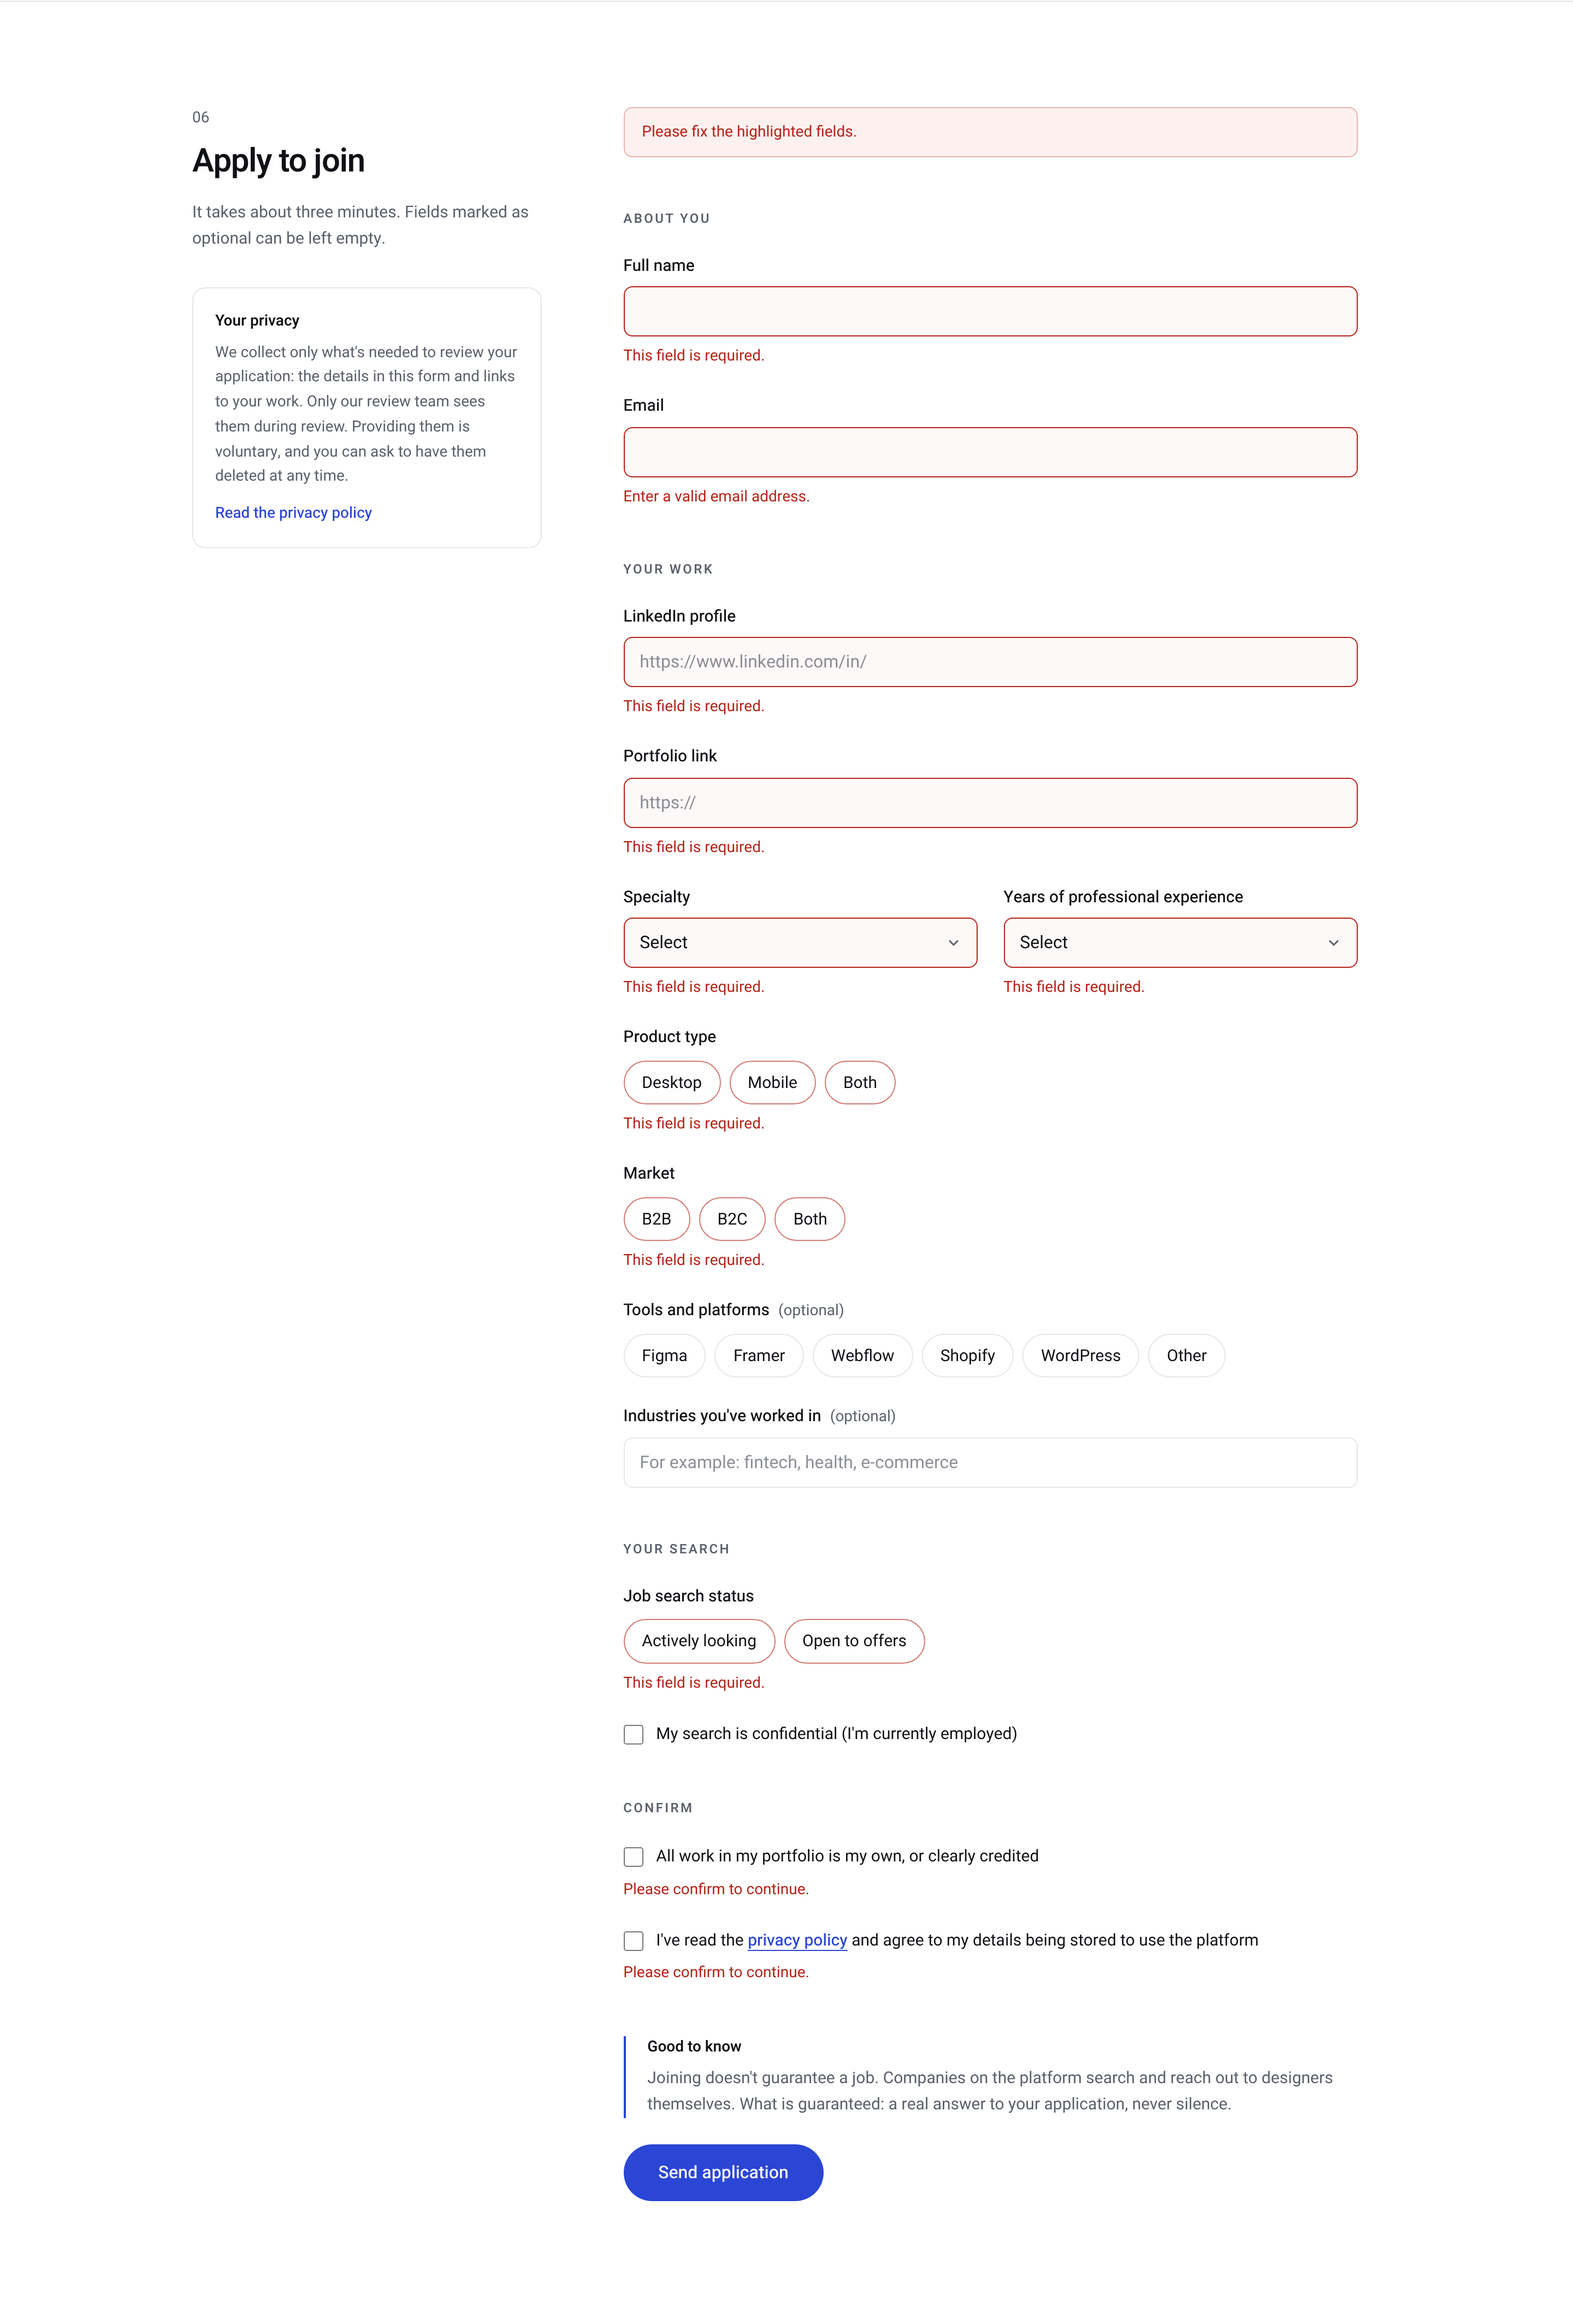
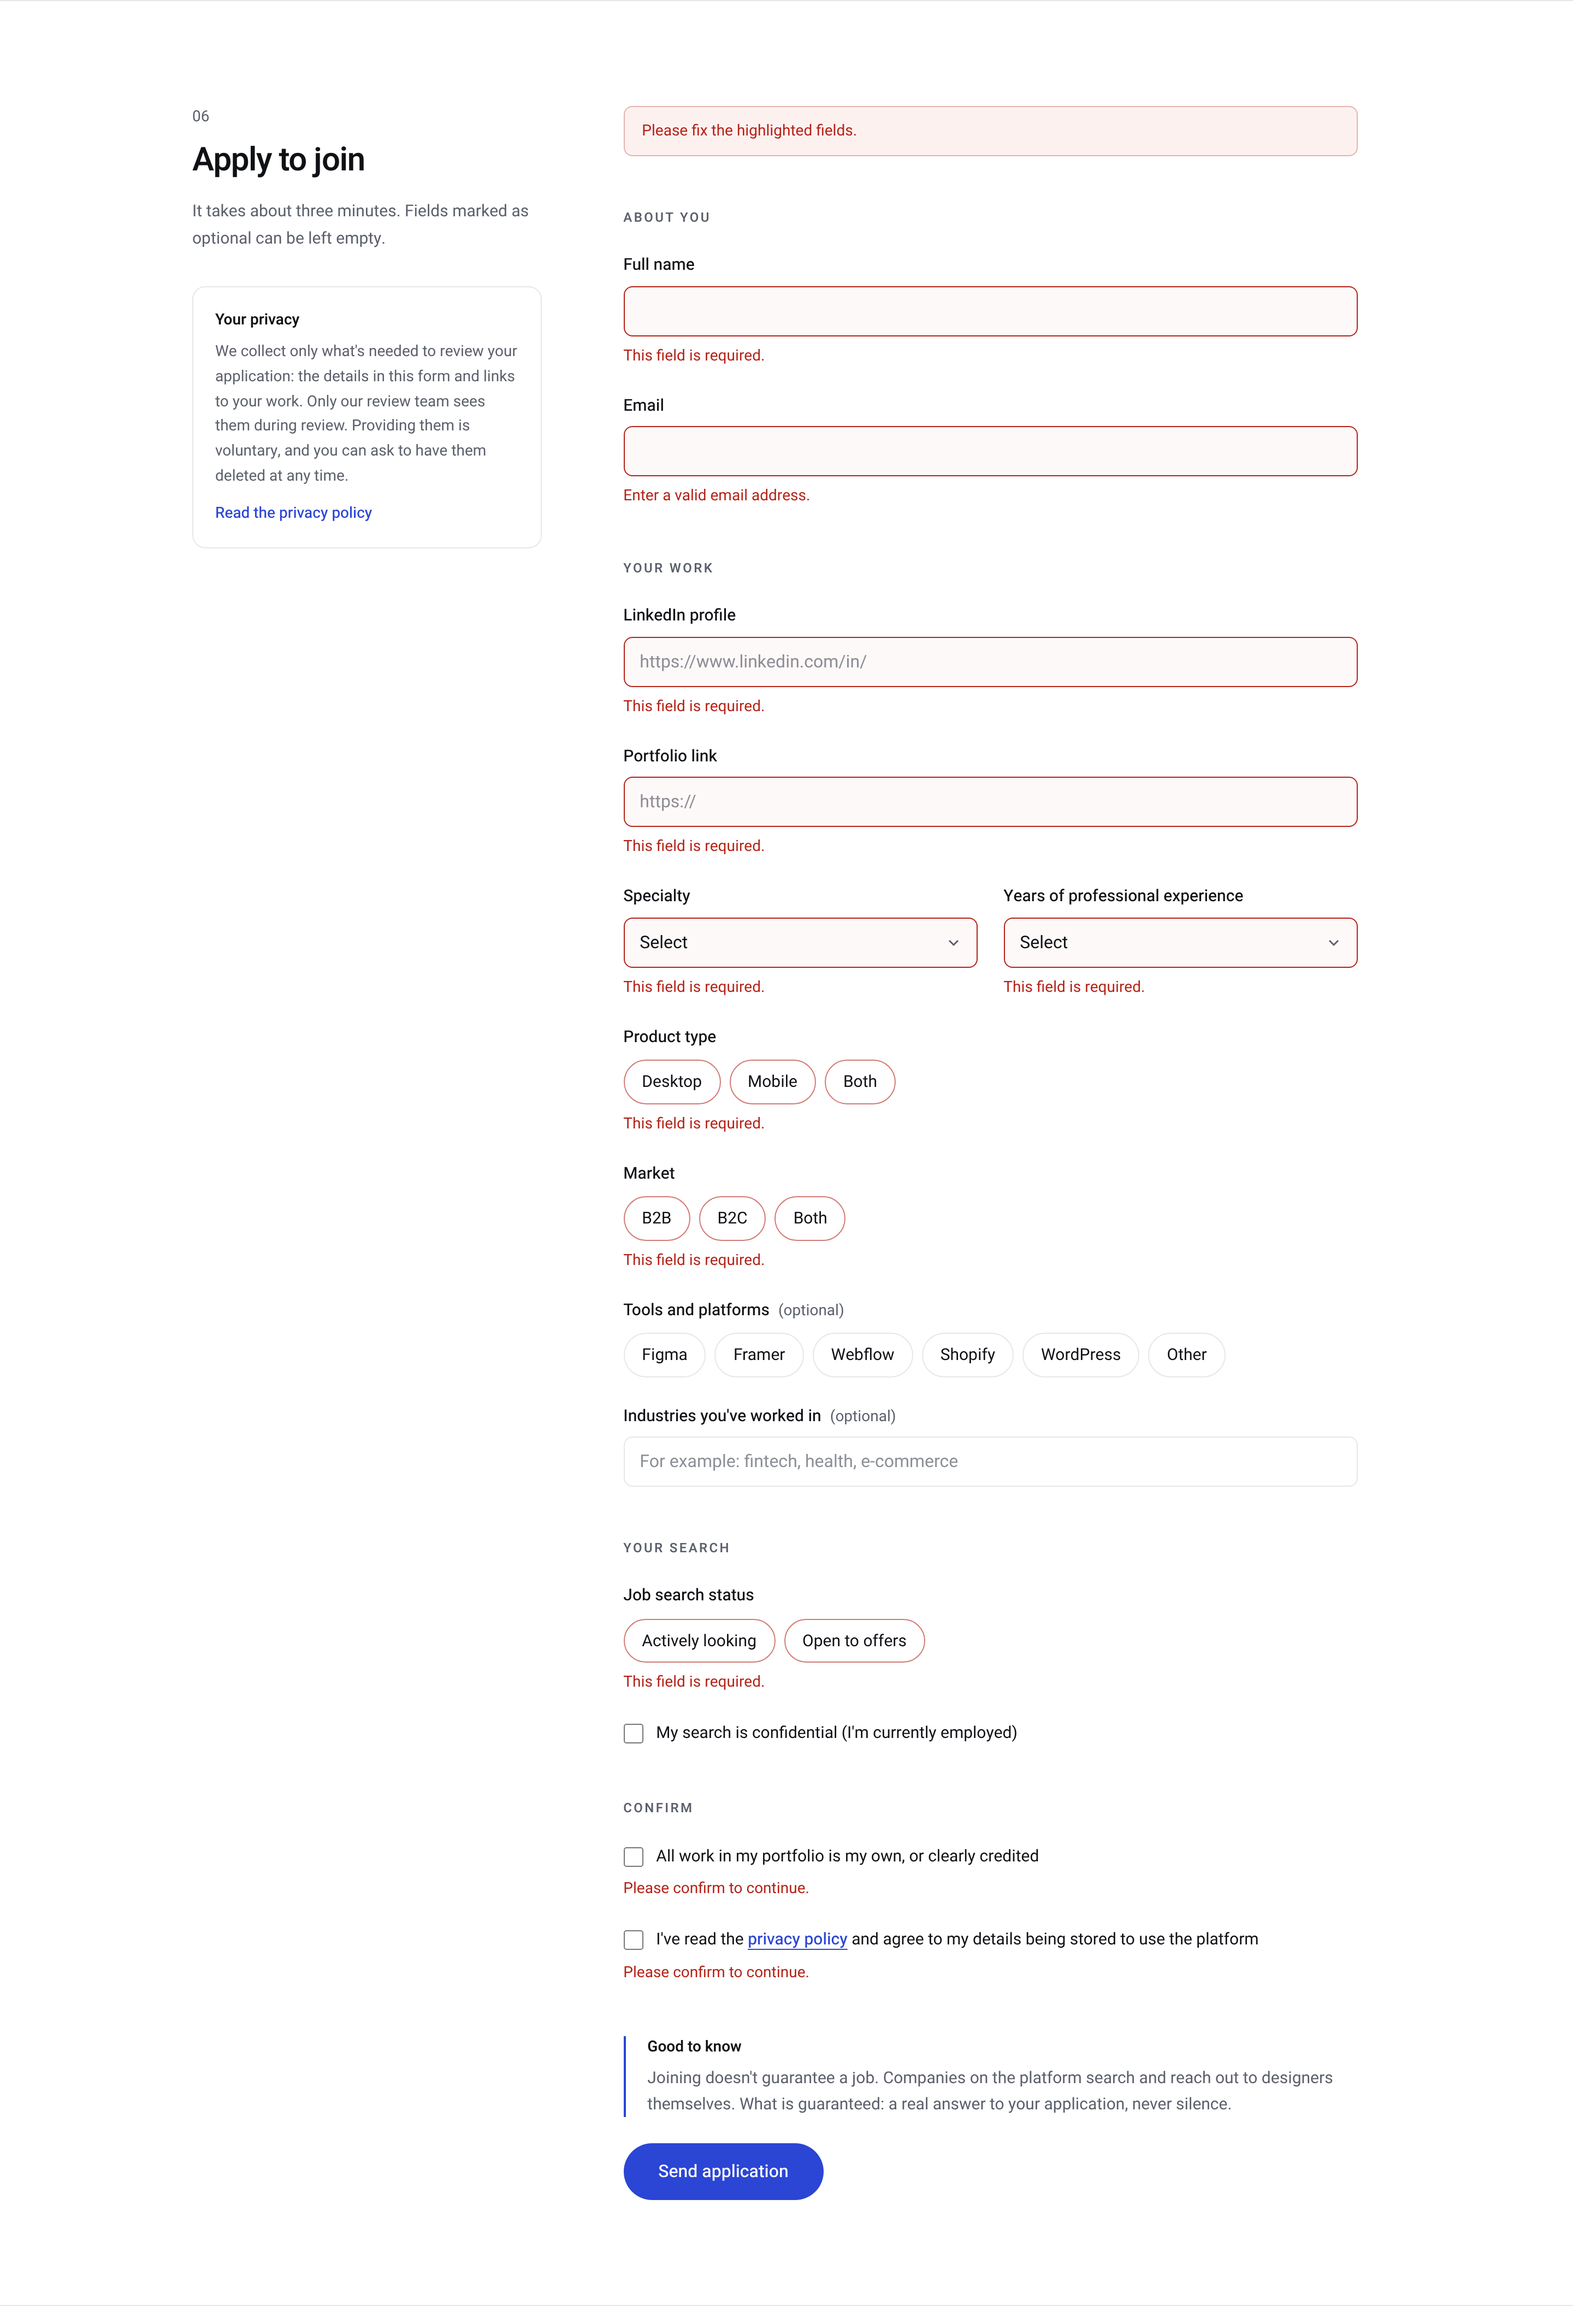
Open the platform to juniors with strong real work; add budget range rules
- Who it's for: no 3+ years minimum; real, shipped work is what counts
- Decline reason 'not enough experience (3+ years)' becomes
  'portfolio doesn't yet show enough real project work'
- Phase 2 budget: monthly gross ILS, top at most 30% above bottom,
  optional note on what moves someone up the range
- Designers can add an optional, never-public salary expectation

Claude-Session: https://claude.ai/code/session_0196WSr9f1eC6p38q1msxF84

diff --git a/src/lib/options.ts b/src/lib/options.ts
@@ -15,7 +15,7 @@ export const APPLICATION_AVAILABILITY = ["actively_looking", "open_to_offers"] a
 export const DECLINE_REASONS = [
   "no_process_case_studies",
   "outside_focus",
-  "not_enough_experience",
+  "not_enough_real_work",
   "portfolio_link_broken",
   "other",
 ] as const;

diff --git a/designer-network-spec.md b/designer-network-spec.md
@@ -74,6 +74,7 @@ Short privacy page (copy below).
   - Confidential search toggle (hide name and photo from employers in phase 2)
   - Portfolio link, LinkedIn link
   - Phone (optional)
+  - Salary expectation (optional): monthly gross, in ILS. Never public; shown only to registered companies in phase 2. Can be left empty.
   - Profile photo (optional, Supabase Storage)
   - Case studies: add, edit, reorder, delete. Each has title, short description (problem, process, outcome), cover image, optional external link, up to 6 images.
   - Contact preferences: email shown to employers yes/no, phone shown yes/no (default: no for both)
@@ -131,6 +132,7 @@ Validation with zod on client and server, error messages next to fields. Honeypo
 - availability text — actively_looking / open_to_offers / not_looking
 - confidential boolean default false
 - show_email boolean default false, show_phone boolean default false
+- salary_expectation int null (monthly gross ILS; optional)
 - own_work_confirmed boolean
 - consent boolean, consent_at timestamptz
 - rules_accepted_at timestamptz null
@@ -161,7 +163,7 @@ One row per decline email sent, so earlier declines remain visible when someone 
 Create only the tables below as empty structures (no UI, no API), so the schema is ready. Field notes reflect decisions already made (see "Phase 2 rules, for reference"):
 - `employers`: company_name, website, contact_name, email, verified boolean, rules_accepted_at, status (active / warned / removed), warnings int, is_founding boolean, created_at
 - `access_passes`: employer_id, type (hiring_round / extension / founding_lifetime / subscription), starts_at, ends_at (null for lifetime), amount_ils, paid_at
-- `jobs`: employer_id, title, description, specialty, product_type, market, seniority, stages jsonb (ordered list), expected_length_weeks (required), budget_min and budget_max (optional, both or neither; visible only to logged-in approved designers, never to visitors), assignment_hours null, assignment_paid boolean, status (open / closed), outcome (hired / not_hired / cancelled, required to close), hired_designer_id null, opened_at, closed_at
+- `jobs`: employer_id, title, description, specialty, product_type, market, seniority, stages jsonb (ordered list), expected_length_weeks (required), budget_min and budget_max (optional, both or neither; monthly gross ILS; budget_max at most 30% above budget_min; visible only to logged-in approved designers, never to visitors), budget_note null (what moves someone up the range), assignment_hours null, assignment_paid boolean, status (open / closed), outcome (hired / not_hired / cancelled, required to close), hired_designer_id null, opened_at, closed_at
 - `applications`: job_id, designer_id, status (sent / viewed / in_review / interview / offer / hired / not_a_fit / withdrawn), status timestamps, response_due_at, rejection_reason (from the professional list), rejection_note, created_at
 - `hire_confirmations`: job_id, designer_id, reported_by (employer / designer), confirmed_by_other boolean, created_at
 - `employer_reviews`: employer_id, designer_id, job_id, rating, comment, employer_response, created_at
@@ -179,7 +181,7 @@ Create only the tables below as empty structures (no UI, no API), so the schema 
 ## Decline reasons (admin dropdown)
 - Portfolio doesn't include case studies that show process
 - Most work is outside the platform's current focus
-- Less professional experience than currently required (3+ years)
+- Portfolio doesn't yet show enough real project work
 - Portfolio link doesn't work
 - Other
 
@@ -221,7 +223,7 @@ Product name not decided: placeholder `[Product name]` in one constant.
 - Footer line (every page): Not a recruitment or placement agency. Designers and companies find each other directly.
 
 **Who it's for**
-Product, UX/UI and web designers with 3+ years of professional experience and shipped work.
+Product, UX/UI and web designers with real, shipped work. Years matter less than the work itself: if you're early in your career, you're welcome too, as long as your portfolio shows strong skills and real projects.
 
 **Founding members**
 We're starting small: first we're building the designer community, and companies join next. The first designers will help shape how this works.
@@ -241,6 +243,10 @@ So the schema and naming fit what's coming:
 - **Employers pay for access, never per hire.** Main product: a hiring round pass (~60 days, extendable by 30). Founding lifetime offer for the first 10–20 companies only. Subscription later.
 - **Every role must state:** stages, expected process length, and assignment terms.
 - **Budget range: optional but encouraged.** Roles that share one get a "Budget shared" label, and designers can filter by it. The budget range is visible only to logged-in approved designers, never to unregistered visitors.
+  - Amounts are monthly gross, in ILS.
+  - The top of the range can be at most 30% above the bottom, so the range stays meaningful.
+  - Optional note on what moves someone up the range (e.g. "Top of range: 8+ years and design-system experience").
+  - Designers can state their own salary expectation in their profile (optional, never public), so the conversation starts from both numbers.
 - **Employers must:** answer every applicant within a set time, with a reason from a professional-only list (experience, portfolio fit, product type, seniority, budget, other) plus an optional professional note. No personal reasons.
 - **Employer rating** is built mainly from objective data (answer rate, response time, actual vs. declared process length). New employers show "New on the platform". Employers can respond to reviews. Repeated violations: warning, then removal.
 - **Success** = a signed contract, reported in the platform: closing a role requires an outcome; the designer can also report a hire and earns a "Hired through the platform" badge; the other side is asked to confirm.
